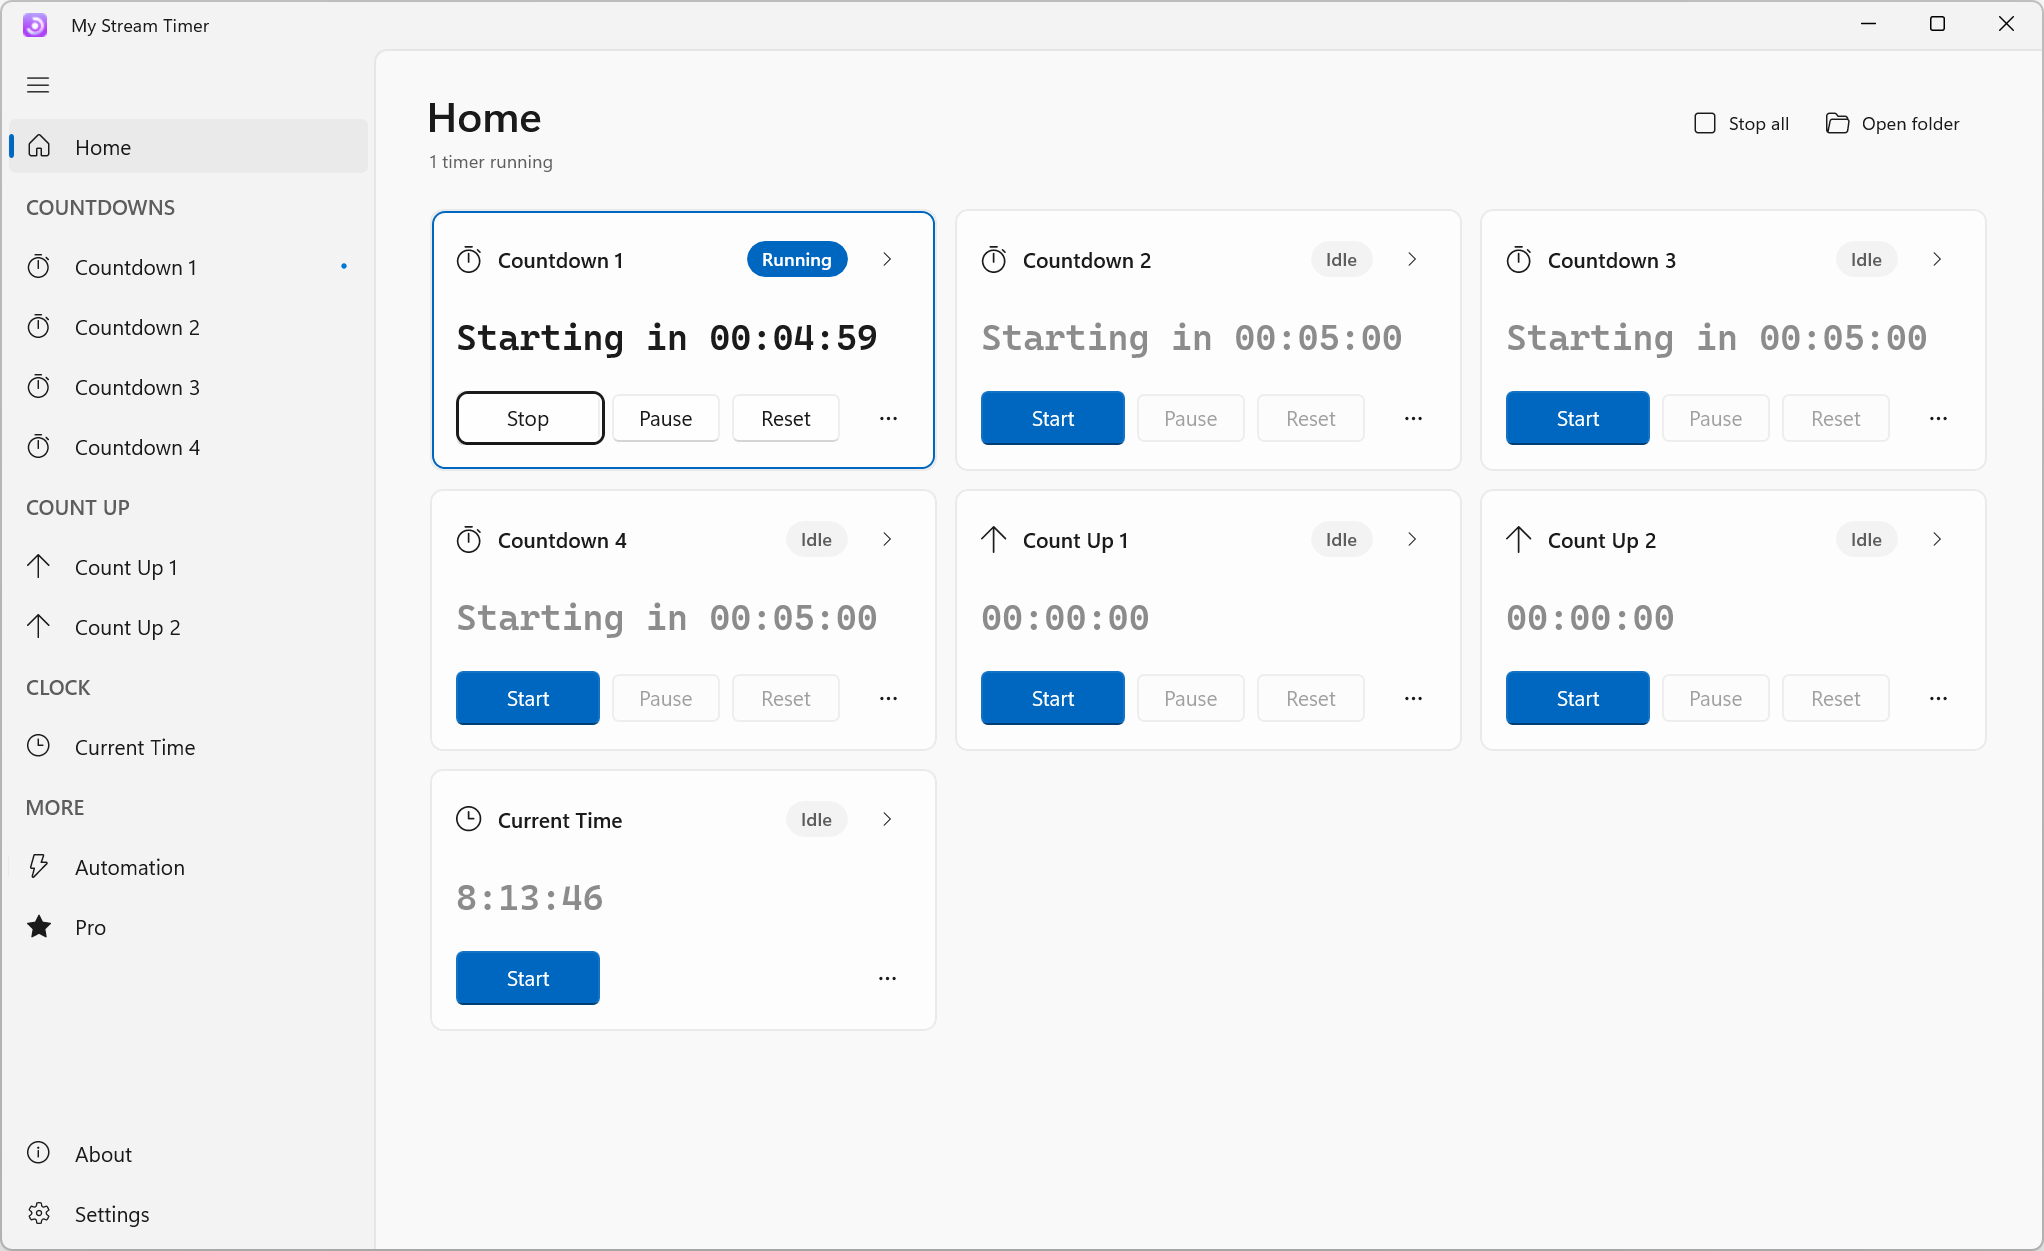
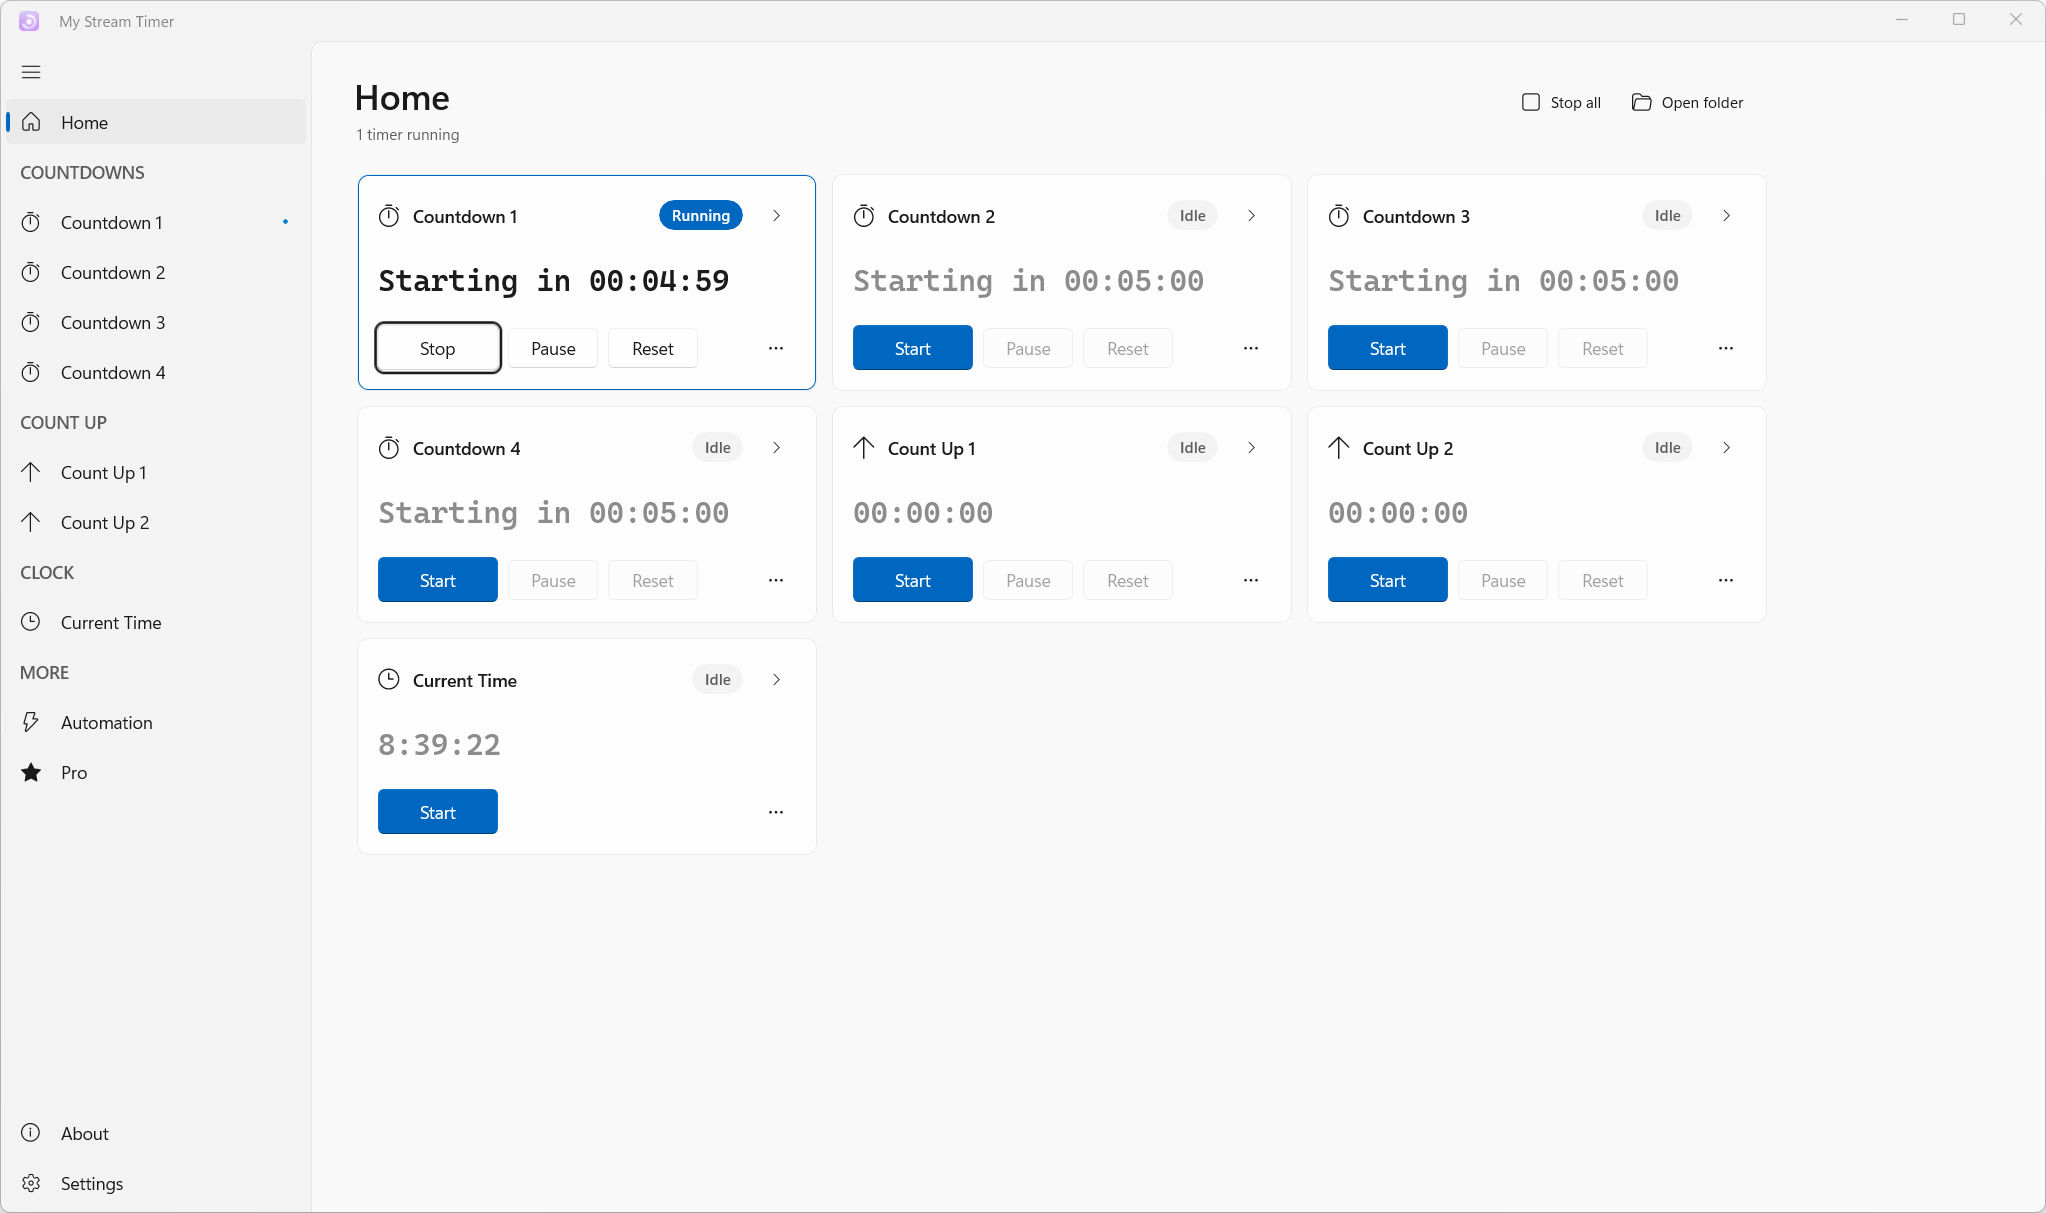
UX tweaks: smaller hero text, Stay on top off by default, full-width centered pop-out preview, pop-out hover grab bar + close button
Copilot-Session: 58388135-15ad-490b-90d9-e8971ed5464d

diff --git a/src/MyStreamTimer.WinUI/Views/SettingsPage.xaml b/src/MyStreamTimer.WinUI/Views/SettingsPage.xaml
@@ -385,26 +385,32 @@
                     <controls:SettingsCard
                         AutomationProperties.Name="Preview"
                         ContentAlignment="Vertical"
+                        HorizontalContentAlignment="Stretch"
                         Description="This is how the pop-out window will look."
                         Header="Preview"
                         Visibility="{x:Bind local:SettingsPage.BoolToVisibility(ViewModel.IsPro), Mode=OneWay}">
                         <Border
                             Height="120"
-                            MaxWidth="400"
                             Margin="0,8,0,0"
-                            HorizontalAlignment="Left"
+                            HorizontalAlignment="Stretch"
                             Background="{x:Bind ViewModel.BackgroundColorBrush, Mode=OneWay}"
                             BorderBrush="{ThemeResource CardStrokeColorDefaultBrush}"
                             BorderThickness="1"
                             CornerRadius="{StaticResource OverlayCornerRadius}">
-                            <Viewbox Margin="12" StretchDirection="DownOnly">
+                            <Viewbox
+                                Margin="12"
+                                HorizontalAlignment="Center"
+                                VerticalAlignment="Center"
+                                StretchDirection="DownOnly">
                                 <TextBlock
                                     AutomationProperties.AutomationId="PopOutPreviewText"
+                                    HorizontalAlignment="Center"
                                     FontFamily="{x:Bind ViewModel.PreviewFontFamily, Mode=OneWay}"
                                     FontSize="{x:Bind ViewModel.PopOutFontSize, Mode=OneWay}"
                                     FontWeight="SemiBold"
                                     Foreground="{x:Bind ViewModel.TextColorBrush, Mode=OneWay}"
-                                    Text="12:34" />
+                                    Text="12:34"
+                                    TextAlignment="Center" />
                             </Viewbox>
                         </Border>
                     </controls:SettingsCard>
@@ -428,3 +434,4 @@
         </StackPanel>
     </ScrollViewer>
 </Page>
+

diff --git a/src/MyStreamTimer.WinUI/Views/PopOutWindow.xaml b/src/MyStreamTimer.WinUI/Views/PopOutWindow.xaml
@@ -14,6 +14,8 @@
         Background="{x:Bind ViewModel.Background, Mode=OneWay}"
         IsTabStop="True"
         KeyDown="OnRootKeyDown"
+        PointerEntered="OnRootPointerEntered"
+        PointerExited="OnRootPointerExited"
         PointerPressed="OnRootPointerPressed"
         UseSystemFocusVisuals="False">
 
@@ -79,6 +81,45 @@
                 TextTrimming="None"
                 TextWrapping="Wrap" />
         </Viewbox>
+
+        <!--  Hover chrome: grab bar + close. Fades in on pointer-over so the overlay stays clean for capture.  -->
+        <Grid
+            x:Name="HoverChrome"
+            VerticalAlignment="Top"
+            IsHitTestVisible="False"
+            Opacity="0">
+            <Grid.OpacityTransition>
+                <ScalarTransition Duration="0:0:0.15" />
+            </Grid.OpacityTransition>
+            <Border
+                x:Name="GrabBar"
+                Height="28"
+                Background="{ThemeResource LayerOnAcrylicFillColorDefaultBrush}"
+                ToolTipService.ToolTip="Drag to move">
+                <FontIcon
+                    HorizontalAlignment="Center"
+                    VerticalAlignment="Center"
+                    FontSize="14"
+                    Foreground="{ThemeResource TextFillColorSecondaryBrush}"
+                    Glyph="&#xE76F;" />
+            </Border>
+            <Button
+                x:Name="CloseButton"
+                Width="36"
+                Height="28"
+                Padding="0"
+                HorizontalAlignment="Right"
+                VerticalAlignment="Top"
+                AutomationProperties.AutomationId="PopOutCloseButton"
+                AutomationProperties.Name="Close pop-out"
+                Background="Transparent"
+                BorderThickness="0"
+                Click="OnCloseClick"
+                CornerRadius="0"
+                ToolTipService.ToolTip="Close (Esc)">
+                <FontIcon FontSize="10" Glyph="&#xE8BB;" />
+            </Button>
+        </Grid>
     </Grid>
 </Window>
 

diff --git a/src/MyStreamTimer.WinUI/Views/TimerPage.xaml b/src/MyStreamTimer.WinUI/Views/TimerPage.xaml
@@ -81,8 +81,8 @@
                     </VisualState.StateTriggers>
                     <VisualState.Setters>
                         <Setter Target="ContentPanel.Padding" Value="20,16,20,24" />
-                        <Setter Target="HeroText.FontSize" Value="40" />
-                        <Setter Target="HeroPreviewText.FontSize" Value="40" />
+                        <Setter Target="HeroText.FontSize" Value="30" />
+                        <Setter Target="HeroPreviewText.FontSize" Value="30" />
                     </VisualState.Setters>
                 </VisualState>
             </VisualStateGroup>
@@ -553,4 +553,5 @@
         </TeachingTip>
     </Grid>
 </Page>
+
 

diff --git a/src/MyStreamTimer.WinUI/Styles/Controls.xaml b/src/MyStreamTimer.WinUI/Styles/Controls.xaml
@@ -23,7 +23,7 @@
     <!-- Hero preview: large monospaced tabular numerals. -->
     <Style x:Key="HeroTextStyle" TargetType="TextBlock">
         <Setter Property="FontFamily" Value="Cascadia Mono, Consolas, Segoe UI" />
-        <Setter Property="FontSize" Value="56" />
+        <Setter Property="FontSize" Value="40" />
         <Setter Property="FontWeight" Value="SemiBold" />
         <Setter Property="TextWrapping" Value="Wrap" />
         <Setter Property="IsTextSelectionEnabled" Value="True" />
@@ -61,3 +61,4 @@
         <Setter Property="MinHeight" Value="36" />
     </Style>
 </ResourceDictionary>
+

diff --git a/src/MyStreamTimer.WinUI/Views/PopOutWindow.xaml.cs b/src/MyStreamTimer.WinUI/Views/PopOutWindow.xaml.cs
@@ -198,10 +198,35 @@ public sealed partial class PopOutWindow : Window
         }
     }
 
+    private void OnRootPointerEntered(object sender, PointerRoutedEventArgs e)
+    {
+        HoverChrome.Opacity = 1;
+        HoverChrome.IsHitTestVisible = true;
+    }
+
+    private void OnRootPointerExited(object sender, PointerRoutedEventArgs e)
+    {
+        // PointerExited also fires when moving onto the close button; it stays inside Root's bounds so re-check.
+        var pos = e.GetCurrentPoint(Root).Position;
+        if (pos.X >= 0 && pos.Y >= 0 && pos.X < Root.ActualWidth && pos.Y < Root.ActualHeight)
+        {
+            return;
+        }
+
+        HoverChrome.Opacity = 0;
+        HoverChrome.IsHitTestVisible = false;
+    }
+
     private void OnRootPointerPressed(object sender, PointerRoutedEventArgs e)
     {
         var point = e.GetCurrentPoint(Root);
         if (!point.Properties.IsLeftButtonPressed)
+        {
+            return;
+        }
+
+        // The close button handles its own click; don't start a drag from it.
+        if (e.OriginalSource is DependencyObject source && IsInside(source, CloseButton))
         {
             return;
         }
@@ -228,6 +253,21 @@ public sealed partial class PopOutWindow : Window
     }
 
     private void OnCopyPathClick(object sender, RoutedEventArgs e) => _clipboard.SetText(ViewModel.FilePath);
+
+    private static bool IsInside(DependencyObject? node, DependencyObject ancestor)
+    {
+        while (node is not null)
+        {
+            if (ReferenceEquals(node, ancestor))
+            {
+                return true;
+            }
+
+            node = Microsoft.UI.Xaml.Media.VisualTreeHelper.GetParent(node);
+        }
+
+        return false;
+    }
 
     private async void OnOpenFolderClick(object sender, RoutedEventArgs e) => await _launcher.OpenFolderAsync(ViewModel.FolderPath);
 

diff --git a/src/MyStreamTimer.Core/Settings/GlobalSettings.cs b/src/MyStreamTimer.Core/Settings/GlobalSettings.cs
@@ -57,8 +57,8 @@ public sealed class GlobalSettings
         set => store.Set(nameof(ProPriceDate), value);
     }
 
-    /// <summary>Windows default was <c>true</c> (macOS was false).</summary>
-    public bool StayOnTop { get => store.GetBool(nameof(StayOnTop), true); set => store.Set(nameof(StayOnTop), value); }
+    /// <summary>Legacy Windows default was <c>true</c>; 3.0 defaults to <c>false</c> (matches macOS). Users who stored a value keep it.</summary>
+    public bool StayOnTop { get => store.GetBool(nameof(StayOnTop), false); set => store.Set(nameof(StayOnTop), value); }
 
     public bool FirstRun { get => store.GetBool(nameof(FirstRun), true); set => store.Set(nameof(FirstRun), value); }
 
@@ -77,3 +77,4 @@ public sealed class GlobalSettings
     public string LastSelectedPage { get => store.GetString(nameof(LastSelectedPage), string.Empty); set => store.Set(nameof(LastSelectedPage), value); }
     public string MainWindowBounds { get => store.GetString(nameof(MainWindowBounds), string.Empty); set => store.Set(nameof(MainWindowBounds), value); }
 }
+

diff --git a/tests/MyStreamTimer.Core.Tests/Settings/LegacySettingsTests.cs b/tests/MyStreamTimer.Core.Tests/Settings/LegacySettingsTests.cs
@@ -57,7 +57,7 @@ public class LegacySettingsTests
         var store = new InMemorySettingsStore();
         var global = new GlobalSettings(store, @"C:\default\MyStreamTimer");
         Assert.Equal(@"C:\default\MyStreamTimer", global.DirectoryPath);
-        Assert.True(global.StayOnTop);
+        Assert.False(global.StayOnTop); // 3.0 default; legacy fixture above still reads stored true
         Assert.True(global.CheckSubStatus);
         Assert.False(global.IsSubValid);
 
